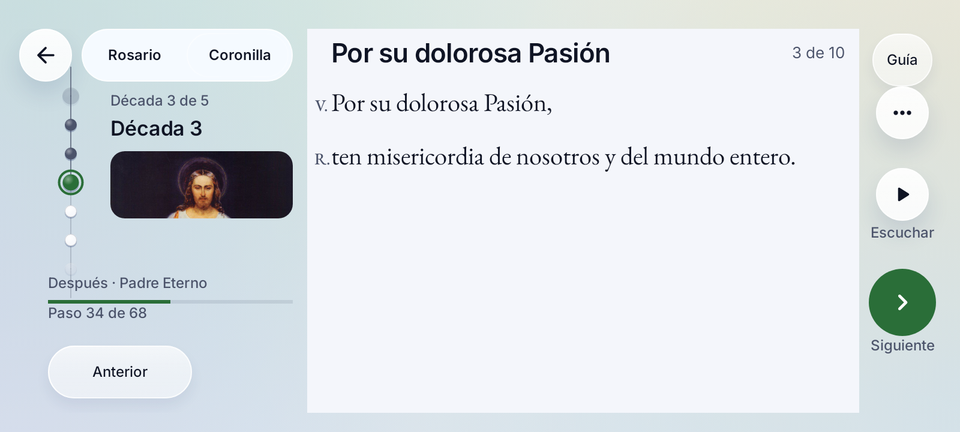
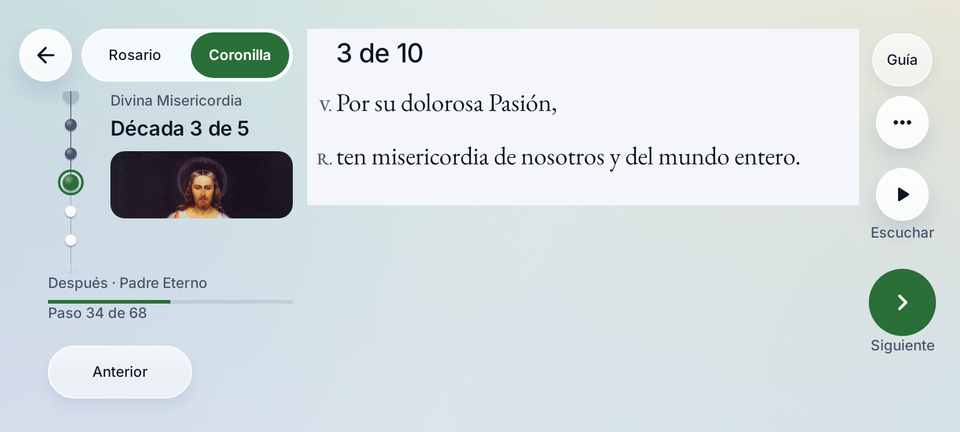
WIP: T-048 round-2 fixes complete, awaiting critic (backup only)
Claude-Session: https://claude.ai/code/session_01SMAtTCKQw6DX5K4BSHRkzL

diff --git a/app/src/main/java/com/example/ui/screens/RosaryScreen.kt b/app/src/main/java/com/example/ui/screens/RosaryScreen.kt
@@ -22,6 +22,7 @@ import androidx.compose.foundation.border
 import androidx.compose.foundation.clickable
 import androidx.compose.foundation.interaction.MutableInteractionSource
 import androidx.compose.foundation.layout.Arrangement
+import androidx.compose.foundation.layout.aspectRatio
 import androidx.compose.foundation.layout.Box
 import androidx.compose.foundation.layout.WindowInsets
 import androidx.compose.foundation.layout.systemGestures
@@ -70,6 +71,10 @@ import androidx.compose.ui.Alignment
 import androidx.compose.ui.Modifier
 import androidx.compose.ui.draw.clip
 import androidx.compose.ui.draw.drawBehind
+import androidx.compose.ui.layout.onSizeChanged
+import androidx.compose.ui.layout.positionInParent
+import androidx.compose.ui.draw.drawWithContent
+import androidx.compose.ui.graphics.BlendMode
 import androidx.compose.ui.graphics.Brush
 import androidx.compose.ui.graphics.Color
 import androidx.compose.ui.graphics.ColorFilter
@@ -100,6 +105,7 @@ import androidx.compose.ui.semantics.progressBarRangeInfo
 import androidx.compose.ui.semantics.selected
 import androidx.compose.ui.semantics.semantics
 import androidx.compose.ui.semantics.stateDescription
+import androidx.compose.ui.semantics.toggleableState
 import androidx.compose.ui.text.font.FontWeight
 import androidx.compose.ui.text.rememberTextMeasurer
 import androidx.compose.ui.text.style.TextAlign
@@ -225,9 +231,9 @@ internal class PrayerGuide(
 
     fun firstStepOn(bead: Int): Int = steps.indexOfFirst { it.bead == bead }
 
-    /** Moving forward across a completed decade, including a bead-reel jump. */
+    /** Moving one step forward from [from] to [to] completes a decade (a firmer haptic tick). Jumps never do. */
     fun finishesDecade(from: Int, to: Int): Boolean =
-        to > from && steps[to].section > steps[from].section && steps[from].section in 1..decadeCount
+        to == from + 1 && steps[to].section != steps[from].section && steps[from].section in 1..decadeCount
 }
 
 private class GuideBuilder {
@@ -1205,7 +1211,7 @@ fun RosaryScreen(
                 selectedMysteryType, selectedTab, labelInDecade, decadeFruit, artPath, glassBackdrop,
                 panelBack, instructionsOn,
                 onSelect = { dispatch(RosaryEvent.SelectDevotion(Devotion.fromTab(it))) },
-                onPrevious = { go(index - 1) }, onBead = { bead -> guide.firstStepOn(bead).takeIf { it >= 0 }?.let { go(it) } },
+                onPrevious = { go(index - 1) }, onNext = { go(index + 1) }, onBead = { bead -> guide.firstStepOn(bead).takeIf { it >= 0 }?.let { go(it) } },
                 onOptions = { sheet = RosarySheet.OPTIONS }, onMysteries = { sheet = RosarySheet.MYSTERIES },
                 onMystery = { sheet = RosarySheet.MYSTERY }
             )
@@ -1219,7 +1225,7 @@ fun RosaryScreen(
     ) {
         if (landscape) {
             LandscapeRosaryPrayer(step, "$selectedTab/$selectedMysteryType/$index", lang, count,
-                currentlySpeaking, { dispatch(RosaryEvent.SkipOptional) }, contentScroll, readingAnchor)
+                currentlySpeaking, { dispatch(RosaryEvent.SkipOptional) }, contentScroll, readingAnchor, instructionsOn)
         } else BoxWithConstraints(
         Modifier.fillMaxSize()
     ) {
@@ -1488,7 +1494,7 @@ private fun LandscapeRosaryContext(
     section: GuideSection, where: String, count: String?, stepText: String, upNext: String?,
     mysteryType: RosaryMysteryType, selectedTab: Int, inDecade: Boolean, fruit: String?,
     art: String?, backdrop: DevotionalBackdrop, back: Pair<String, () -> Unit>?, guidance: Boolean,
-    onSelect: (Int) -> Unit, onPrevious: () -> Unit, onBead: (Int) -> Unit,
+    onSelect: (Int) -> Unit, onPrevious: () -> Unit, onNext: () -> Unit, onBead: (Int) -> Unit,
     onOptions: () -> Unit, onMysteries: () -> Unit, onMystery: () -> Unit
 ) {
     val window = appWindowSize()
@@ -1513,34 +1519,34 @@ private fun LandscapeRosaryContext(
             DevotionSwitch(lang, selectedTab, backdrop, design.isDark, onSelect, compact = true)
         }
         Spacer(Modifier.height(8.dp))
-        Row(Modifier.weight(1f).fillMaxWidth().padding(start = start, end = 12.dp), horizontalArrangement = Arrangement.spacedBy(8.dp)) {
+        Row(Modifier.weight(1f).fillMaxWidth().padding(start = start, end = 12.dp).semantics { isTraversalGroup = true }, horizontalArrangement = Arrangement.spacedBy(8.dp)) {
             val beadSteps = guide.steps.indices.filter { guide.steps[it].bead == step.bead }
             BeadReel(beads = guide.beads.map { it.kind }, activeBead = step.bead, onSelectBead = onBead,
                 subStepCount = beadSteps.size, subStepIndex = beadSteps.indexOf(index).coerceAtLeast(0),
                 orientation = androidx.compose.foundation.gestures.Orientation.Vertical,
                 modifier = Modifier.width(44.dp).fillMaxHeight().testTag(if (isRosary) "prayer_bead_counter" else "mercy_step_counter")
                     .semantics {
+                        traversalIndex = 1f
                         contentDescription = listOfNotNull(where, step.name, count).joinToString(", ")
                         stateDescription = stepText
                         customActions = listOf(
-                            CustomAccessibilityAction(lang.pick("Anterior", "Back", "Anterior")) { if (index > 0) { onBead((step.bead - 1).coerceAtLeast(0)); true } else false },
-                            CustomAccessibilityAction(lang.pick("Siguiente", "Next", "Seguinte")) { if (step.bead < guide.beads.lastIndex) { onBead(step.bead + 1); true } else false }
+                            CustomAccessibilityAction(lang.pick("Anterior", "Back", "Anterior")) { if (index > 0) { onPrevious(); true } else false },
+                            CustomAccessibilityAction(lang.pick("Siguiente", "Next", "Seguinte")) { if (index < guide.steps.lastIndex) { onNext(); true } else false }
                         )
                     })
-            Box(Modifier.weight(1f).fillMaxHeight()) {
-                Column(Modifier.fillMaxSize().verticalScroll(contextScroll).testTag("rosary_context_scroll").semantics { isTraversalGroup = true; traversalIndex = 0f }) {
+            Box(Modifier.weight(1f).fillMaxHeight().semantics { isTraversalGroup = true; traversalIndex = 0f }) {
+                Column(Modifier.fillMaxSize().rosaryScrollFade(contextScroll.canScrollForward, 16.dp).verticalScroll(contextScroll).testTag("rosary_context_scroll").semantics { isTraversalGroup = true; traversalIndex = 0f }) {
                     Text(if (isRosary && inDecade) mysteryAnnouncement(lang, mysteryType, step.section - 1, "").substringBefore(":") else if (!isRosary) lang.pick("Divina Misericordia", "Divine Mercy", "Divina Misericórdia") else where, style = styles.caption, color = p.textSecondary)
                     Spacer(Modifier.height(4.dp))
                     Text(if (inDecade) section.subtitle else step.intention ?: if (isRosary) step.name else where,
                         style = styles.headline, color = p.textPrimary,
                         modifier = Modifier.testTag(if (isRosary) "rosary_hero_title" else "mercy_hero_title").semantics { heading() })
                     Spacer(Modifier.height(8.dp))
-                    if (guidance) { GuideHint(step, lang, compact = true); Spacer(Modifier.height(8.dp)) }
                     val thumbHeight = if (window.height < 400.dp) 56.dp else 102.dp
-                    Box(Modifier.fillMaxWidth().height(thumbHeight)
+                    if (art != null) Box(Modifier.fillMaxWidth().height(thumbHeight)
                         .testTag(if (isRosary) "rosary_hero_photo" else "mercy_hero_photo")
                         .semantics { credit?.let { contentDescription = listOf(it.title, it.artist).filter { it.isNotBlank() }.joinToString(", ") } }) {
-                        ArtThumb(art.orEmpty(), Modifier.fillMaxSize()
+                        ArtThumb(art, Modifier.fillMaxSize()
                             .then(if (inDecade) Modifier.testTag("mystery_hero_photo") else Modifier)
                             .then(if (design.isSanctuary) Modifier.border(0.75.dp, p.separator, RoundedCornerShape(8.dp)).padding(5.dp) else Modifier))
                     }
@@ -1583,24 +1589,41 @@ private fun LandscapeRosaryContext(
 }
 
 @Composable
-private fun LandscapePrayerPill(text: String, tag: String, action: () -> Unit, enabled: Boolean = true, modifier: Modifier = Modifier) {
+private fun LandscapePrayerPill(text: String, tag: String, action: () -> Unit, enabled: Boolean = true, modifier: Modifier = Modifier,
+                                switchState: Boolean? = null) {
     val design = LocalAppDesign.current
     val shape = if (design.isSanctuary) RoundedCornerShape(8.dp) else CircleShape
-    Box(modifier.heightIn(min = 44.dp).lumenPress(action, enabled = enabled, shape = shape)
-        .semantics { contentDescription = text }.testTag(tag)
-        .lumenGlass(shape).padding(horizontal = 12.dp), contentAlignment = Alignment.Center) {
-        Text(text, style = LocalAppTextStyles.current.caption, color = if (enabled) design.palette.textPrimary else design.palette.inkQuiet)
+    val on = switchState == true
+    Box(modifier.heightIn(min = 44.dp)
+        .lumenPress(action, enabled = enabled, shape = shape, role = if (switchState != null) Role.Switch else Role.Button)
+        .semantics {
+            contentDescription = text
+            if (switchState != null) toggleableState = androidx.compose.ui.state.ToggleableState(on)
+        }.testTag(tag)
+        .then(if (on) Modifier.background(design.palette.action, shape) else Modifier.lumenGlass(shape))
+        .padding(horizontal = 12.dp), contentAlignment = Alignment.Center) {
+        Text(text, style = LocalAppTextStyles.current.caption,
+            color = if (on) design.palette.onAction else if (enabled) design.palette.textPrimary else design.palette.inkQuiet)
     }
 }
+
+/** Fades the bottom edge of scrolling content out by masking it (no painted rectangle). */
+private fun Modifier.rosaryScrollFade(canScroll: Boolean, fade: Dp): Modifier = this
+    .graphicsLayer { compositingStrategy = androidx.compose.ui.graphics.CompositingStrategy.Offscreen }
+    .drawWithContent {
+        drawContent()
+        if (canScroll && size.height > 0f) {
+            val f = (fade.toPx() / size.height).coerceIn(0f, 1f)
+            drawRect(Brush.verticalGradient(0f to Color.Black, (1f - f) to Color.Black, 1f to Color.Transparent), blendMode = BlendMode.DstIn)
+        }
+    }
 
 @Composable
 private fun RosaryScrollHint(visible: Boolean, height: Dp, tag: String) {
     if (visible) {
         val p = LocalAppDesign.current.palette
-        Box(Modifier.fillMaxSize(), contentAlignment = Alignment.BottomCenter) {
-            Box(Modifier.fillMaxWidth().height(height).background(Brush.verticalGradient(listOf(Color.Transparent, p.canvasTop)))
-                .testTag(tag).clearAndSetSemantics {})
-            Icon(Icons.Rounded.KeyboardArrowDown, null, tint = p.textSecondary, modifier = Modifier.size(16.dp).clearAndSetSemantics {})
+        Box(Modifier.fillMaxSize().testTag(tag).clearAndSetSemantics {}, contentAlignment = Alignment.BottomEnd) {
+            Icon(Icons.Rounded.KeyboardArrowDown, null, tint = p.textSecondary, modifier = Modifier.padding(end = 4.dp, bottom = 2.dp).size(16.dp))
         }
     }
 }
@@ -1614,9 +1637,10 @@ private fun LandscapeRosaryActions(lang: AppLanguage, isRosary: Boolean, guidanc
     val styles = LocalAppTextStyles.current
     val edge = maxOf(12.dp, safe.end + 8.dp)
     Box(Modifier.fillMaxHeight().padding(end = edge).width(72.dp).testTag("prayer_transport").semantics { isTraversalGroup = true; traversalIndex = 2f }) {
-        Column(Modifier.align(Alignment.TopCenter), horizontalAlignment = Alignment.CenterHorizontally) {
+        Column(Modifier.align(Alignment.TopCenter), horizontalAlignment = Alignment.CenterHorizontally,
+            verticalArrangement = Arrangement.spacedBy(8.dp)) {
             LandscapePrayerPill(lang.pick("Guía", "Guide", "Guia"), "prayer_instructions_toggle", onGuide,
-                modifier = Modifier.semantics { selected = guidance })
+                modifier = Modifier.semantics { selected = guidance }, switchState = guidance)
             AppGlassIconButton(Icons.Outlined.MoreHoriz, lang.pick("Opciones", "Options", "Opções"), onOptions,
                 modifier = Modifier.size(44.dp), tag = "rosary_options_button")
         }
@@ -1625,15 +1649,15 @@ private fun LandscapeRosaryActions(lang: AppLanguage, isRosary: Boolean, guidanc
             AppGlassIconButton(if (playing) Icons.Rounded.Pause else Icons.Rounded.PlayArrow,
                 if (playing) lang.pick("Pausar", "Pause", "Pausar") else lang.pick("Escuchar", "Listen", "Ouvir"), onAudio,
                 tag = if (isRosary) "toggle_prayer_audio_button" else "toggle_mercy_audio_button")
-            Text(lang.pick("Escuchar", "Listen", "Ouvir"), style = styles.caption, color = p.textSecondary, modifier = Modifier.clearAndSetSemantics {})
+            Text(if (playing) lang.pick("Pausar", "Pause", "Pausar") else lang.pick("Escuchar", "Listen", "Ouvir"), style = styles.caption, color = p.textSecondary, modifier = Modifier.clearAndSetSemantics {})
         }
         Column(Modifier.align(Alignment.TopCenter).padding(top = window.height * 0.70f - safe.top - 32.dp),
             horizontalAlignment = Alignment.CenterHorizontally) {
             val shape = if (LocalAppDesign.current.isSanctuary) RoundedCornerShape(12.dp) else CircleShape
-            Box(Modifier.size(56.dp).background(p.action, shape).lumenPress(onNext, enabled = canNext, shape = shape)
+            Box(Modifier.size(56.dp).background(if (canNext) p.action else p.action.copy(alpha = .38f), shape).lumenPress(onNext, enabled = canNext, shape = shape)
                 .testTag(if (isRosary) "next_bead_button" else "next_mercy_step_button")
                 .semantics { contentDescription = lang.pick("Siguiente", "Next", "Seguinte") }, contentAlignment = Alignment.Center) {
-                Icon(Icons.Rounded.ChevronRight, null, tint = p.onAction, modifier = Modifier.size(28.dp))
+                Icon(Icons.Rounded.ChevronRight, null, tint = if (canNext) p.onAction else p.onAction.copy(alpha = .6f), modifier = Modifier.size(28.dp))
             }
             Text(lang.pick("Siguiente", "Next", "Seguinte"), style = styles.caption, color = p.textSecondary, modifier = Modifier.clearAndSetSemantics {})
         }
@@ -1642,18 +1666,29 @@ private fun LandscapeRosaryActions(lang: AppLanguage, isRosary: Boolean, guidanc
 
 @OptIn(ExperimentalFoundationApi::class)
 @Composable
-private fun LandscapeRosaryPrayer(step: GuideStep, key: String, lang: AppLanguage, count: String?, spoken: String?, onSkip: () -> Unit, scroll: androidx.compose.foundation.ScrollState, readingAnchor: RosaryTextAnchor) {
+private fun LandscapeRosaryPrayer(step: GuideStep, key: String, lang: AppLanguage, count: String?, spoken: String?, onSkip: () -> Unit, scroll: androidx.compose.foundation.ScrollState, readingAnchor: RosaryTextAnchor, guidance: Boolean = false) {
     val safe = appSafeInsets()
     val p = LocalAppDesign.current.palette
     val responseView = remember(key) { BringIntoViewRequester() }
     LaunchedEffect(key, spoken) { if (spoken != null && spoken == step.response) responseView.bringIntoView() }
-    Column(Modifier.fillMaxSize().testTag("prayer_text_art").background(p.canvasTop).padding(start = 20.dp, end = 12.dp, top = safe.top + 4.dp)) {
-        PrayerTitleRow(step, count, lang, true, onSkip, padded = false)
+    // P9: the scroll area reaches the footer, but the opaque surface stops where the text does.
+    var viewportTop by remember { mutableStateOf(0f) }
+    var contentHeight by remember { mutableStateOf(0) }
+    Column(Modifier.fillMaxSize().testTag("prayer_text_art")
+        .drawBehind {
+            val h = minOf(viewportTop + (safe.top + 4.dp).toPx() + contentHeight + 24.dp.toPx(), size.height)
+            drawRect(p.canvasTop, size = androidx.compose.ui.geometry.Size(size.width, h))
+        }
+        .padding(start = 24.dp, end = 12.dp, top = safe.top + 4.dp)) {
+        PrayerTitleRow(step, count, lang, !nameRepeatsText(step), onSkip, padded = false)
         Spacer(Modifier.height(8.dp))
+        if (guidance) { GuideHint(step, lang, compact = true); Spacer(Modifier.height(8.dp)) }
         Box(Modifier.weight(1f).fillMaxWidth().testTag("prayer_reading_viewport")
-            .onGloballyPositioned { readingAnchor.viewport = it.boundsInRoot() }) {
-            Column(Modifier.fillMaxSize().verticalScroll(scroll).testTag("prayer_content_scroll")) {
-                PrayerBody(step.copy(intention = null, meditation = null, detail = null), lang, spoken, instructionsOn = false, responseModifier = Modifier.bringIntoViewRequester(responseView), readingAnchor = readingAnchor)
+            .onGloballyPositioned { readingAnchor.viewport = it.boundsInRoot(); viewportTop = it.positionInParent().y }) {
+            Column(Modifier.fillMaxSize().rosaryScrollFade(scroll.canScrollForward, 24.dp).verticalScroll(scroll).testTag("prayer_content_scroll")) {
+                Column(Modifier.onSizeChanged { contentHeight = it.height }) {
+                    PrayerBody(step.copy(intention = null, meditation = null, detail = null), lang, spoken, instructionsOn = false, responseModifier = Modifier.bringIntoViewRequester(responseView), readingAnchor = readingAnchor)
+                }
             }
             RosaryScrollHint(scroll.canScrollForward, 24.dp, "prayer_scroll_hint")
         }
@@ -1858,11 +1893,15 @@ private fun DevotionSwitch(lang: AppLanguage, selected: Int, backdrop: Devotiona
             LiquidGlassDevotionTrack(selected, false, darkArt, backdrop, Modifier.matchParentSize()) { }
             Row(Modifier.fillMaxSize()) {
                 short.forEachIndexed { i, text ->
+                    val isSel = i == selected
+                    val segShape = if (design.isSanctuary) RoundedCornerShape(8.dp) else CircleShape
                     Box(Modifier.weight(1f).fillMaxHeight()
-                        .clickable(sources[i], indication = com.example.ui.design.appFocusRing(sources[i], CircleShape), role = Role.Tab) { onSelect(i) }
-                        .semantics { this.selected = i == selected }, contentAlignment = Alignment.Center) {
-                        Text(text, style = styles.caption.copy(fontWeight = FontWeight.SemiBold),
-                            color = if ((design.isClassic || design.reduceTransparency || design.highContrast) && i == selected) p.onAction else p.textPrimary,
+                        .clickable(sources[i], indication = com.example.ui.design.appFocusRing(sources[i], segShape), role = Role.Tab) { onSelect(i) }
+                        .semantics { this.selected = isSel }
+                        .padding(3.dp)
+                        .then(if (isSel) Modifier.background(p.action, segShape) else Modifier), contentAlignment = Alignment.Center) {
+                        Text(text, style = styles.caption.copy(fontWeight = if (isSel) FontWeight.SemiBold else FontWeight.Medium),
+                            color = if (isSel) p.onAction else p.textPrimary,
                             textAlign = TextAlign.Center)
                     }
                 }
@@ -2245,7 +2284,7 @@ private fun PrayerBody(
 private fun HungVoice(mark: String, text: String, style: TextStyle, ink: Color, markInk: Color, modifier: Modifier = Modifier) {
     // 14dp hang: the mark starts 6dp from the screen edge and keeps 4dp clear of the text.
     // It is 0.72em; at large type (where it would pass 10dp) it steps down to 0.66em.
-    val hang = 14.dp
+    val hang = if (appWindowClass() == AppWindowClass.LandscapePhone) 16.dp else 14.dp
     val em = if (LocalDensity.current.fontScale > 1.15f) 0.66f else 0.72f
     val markStyle = LocalAppTextStyles.current.reading.let { it.copy(fontSize = it.fontSize * em, fontWeight = FontWeight.Medium) }
     Row(
@@ -2645,14 +2684,21 @@ private fun OptionsSheet(
             if (isRosary) lang.pick("Partes del Rosario", "Parts of the Rosary", "Partes do Rosário")
             else lang.pick("Pasos de la coronilla", "Steps of the chaplet", "Passos da coroinha")
         )
-        RosaryLoopMap(
-            beads = guide.beads.map { it.kind },
-            activeBead = step.bead,
-            onSelectBead = { bead -> guide.firstStepOn(bead).takeIf { it >= 0 }?.let(onGo) },
-            modifier = Modifier
-                .padding(horizontal = if (landscape) 8.dp else 72.dp, vertical = 4.dp)
-                .testTag("rosary_loop_map")
-        )
+        val map: @Composable (Modifier) -> Unit = { m ->
+            RosaryLoopMap(
+                beads = guide.beads.map { it.kind },
+                activeBead = step.bead,
+                onSelectBead = { bead -> guide.firstStepOn(bead).takeIf { it >= 0 }?.let(onGo) },
+                modifier = m.testTag("rosary_loop_map")
+            )
+        }
+        if (landscape) {
+            // The map is square: fit it to the column so it is never clipped.
+            BoxWithConstraints(Modifier.fillMaxWidth()) {
+                val side = minOf(maxWidth - 16.dp, LocalRosarySheetColumnHeight.current - 64.dp).coerceAtLeast(96.dp)
+                map(Modifier.size(side).align(Alignment.Center).padding(vertical = 4.dp))
+            }
+        } else map(Modifier.padding(horizontal = 72.dp, vertical = 4.dp))
         Spacer(Modifier.height(12.dp))
         val prayed = lang.pick("Rezado", "Prayed", "Rezado")
         val now = lang.pick("Ahora", "Now", "Agora")
@@ -2710,12 +2756,17 @@ private fun OptionsSheet(
     }
 }
 
+private val LocalRosarySheetColumnHeight = androidx.compose.runtime.compositionLocalOf { Dp.Infinity }
+
 /** Each sheet column has its own reachable text and a visible continuation hint. */
 @Composable
 private fun RosarySheetColumn(modifier: Modifier = Modifier, content: @Composable androidx.compose.foundation.layout.ColumnScope.() -> Unit) {
     val scroll = rememberScrollState()
-    Box(modifier.height((appWindowSize().height - 116.dp).coerceAtLeast(132.dp))) {
-        Column(Modifier.fillMaxSize().verticalScroll(scroll), content = content)
+    val columnHeight = (appWindowSize().height - 116.dp).coerceAtLeast(132.dp)
+    Box(modifier.height(columnHeight)) {
+        androidx.compose.runtime.CompositionLocalProvider(LocalRosarySheetColumnHeight provides columnHeight) {
+            Column(Modifier.fillMaxSize().rosaryScrollFade(scroll.canScrollForward, 16.dp).verticalScroll(scroll), content = content)
+        }
         RosaryScrollHint(scroll.canScrollForward, 16.dp, "rosary_sheet_scroll_hint")
     }
 }
@@ -2745,7 +2796,10 @@ private fun MysterySheet(
                 RosarySheetColumn(Modifier.weight(1f)) {
                     if (artPath != null) {
                         val bitmap = rememberAssetBitmap(artPath, 1080)
-                        Box(Modifier.fillMaxWidth().height(192.dp).border(.75.dp, p.separator).padding(5.dp)) {
+                        val ratio = bitmap?.let { it.width.toFloat() / it.height.coerceAtLeast(1) } ?: (4f / 3f)
+                        val frame = if (design.isSanctuary) Modifier.border(.75.dp, p.separator).padding(5.dp)
+                            else Modifier.clip(RoundedCornerShape(12.dp))
+                        Box(Modifier.align(Alignment.CenterHorizontally).aspectRatio(ratio).heightIn(max = 192.dp).then(frame)) {
                             if (bitmap != null) Image(bitmap, null, contentScale = ContentScale.Fit, modifier = Modifier.fillMaxSize())
                         }
                     }

diff --git a/app/src/test/java/com/example/RosaryFitTest.kt b/app/src/test/java/com/example/RosaryFitTest.kt
@@ -13,6 +13,7 @@ import com.example.data.models.*
 import com.example.data.repository.CatholicDataRepository
 import com.example.ui.screens.*
 import com.example.ui.theme.SanctaFidesTheme
+import androidx.compose.ui.unit.dp
 import org.junit.*
 import org.junit.Assert.*
 import org.junit.runner.RunWith
@@ -61,7 +62,18 @@ class RosaryFitTest(private val width: Int, private val height: Int, private val
             compose.runOnUiThread { LandscapeInsetsHarness.dispatch(compose.activity, height) }; compose.waitForIdle()
             val pane = compose.onNodeWithTag("prayer_content_scroll")
             val range = pane.fetchSemanticsNode().config[SemanticsProperties.VerticalScrollAxisRange]
-            assertEquals("$lang $width guide=$guidance ${step.name} must fit", 0f, range.maxValue(), .5f)
+            // LANDSCAPE.md §14 decision 1: the guide sits between the title and the text and, with it on at
+            // 800 x 360, the Our Father may scroll (exception declared; it never loses the guide).
+            val declaredException = guidance && height < 400 && devotion == 0 && step.name == routine.first().third.name
+            if (!declaredException) assertEquals("$lang $width guide=$guidance ${step.name} must fit", 0f, range.maxValue(), .5f)
+            if (guidance) {
+                val hint = compose.onNodeWithTag("prayer_instructions_text", useUnmergedTree = true)
+                hint.assertIsDisplayed()
+                val hb = hint.getUnclippedBoundsInRoot()
+                val root = compose.onRoot().getUnclippedBoundsInRoot()
+                assertTrue("${step.name}: guide fully inside the window", hb.top >= root.top && hb.bottom <= root.bottom && hb.right <= root.right)
+                assertTrue("${step.name}: guide sits above the prayer text", hb.bottom <= viewportTop(pane))
+            }
             val viewport = pane.getUnclippedBoundsInRoot()
             for (text in listOf(step.leader, step.response).filter { it.isNotBlank() }) {
                 val node = compose.onNodeWithText(text, useUnmergedTree = true)
@@ -70,11 +82,12 @@ class RosaryFitTest(private val width: Int, private val height: Int, private val
                 assertEquals(1, layouts.size)
                 assertFalse("Prayer text must not be ellipsized", layouts.single().hasVisualOverflow)
                 val b = node.getUnclippedBoundsInRoot()
-                assertTrue("${step.name}: full text fits above gestures", b.top >= viewport.top && b.bottom <= viewport.bottom)
+                assertTrue("${step.name}: full text fits above gestures", declaredException || b.top >= viewport.top && b.bottom <= viewport.bottom)
             }
             compose.onNodeWithTag(if (devotion == 0) "next_bead_button" else "next_mercy_step_button").assertIsDisplayed()
         }
     }
+    private fun viewportTop(pane: SemanticsNodeInteraction) = pane.getUnclippedBoundsInRoot().top + 0.5.dp
     companion object {
         @JvmStatic @ParameterizedRobolectricTestRunner.Parameters(name = "{0}x{1}-{2}-guide{3}")
         fun cases() = listOf(891 to 411, 800 to 360).flatMap { (w,h) -> AppLanguage.entries.flatMap { l ->

diff --git a/docs/tasks/T-048-REPORT.md b/docs/tasks/T-048-REPORT.md
@@ -62,3 +62,35 @@ La matriz amplia de capturas se detuvo por la petición del propietario. No se d
 - Si falta el recurso de arte, omitir el bloque vacío y su espacio asociado.
 
 Estas observaciones quedan documentadas para la próxima indicación. No se continuaron los cambios tras la orden de entregar y esperar.
+
+
+## Ronda 2 (coordinador)
+
+Correcciones aplicadas por el agente local del coordinador sobre la integración de `ext/T-048`, a partir de `docs/tasks/T-048-REVIEW.md`. Sin commit; todo en el árbol de trabajo.
+
+| # | Defecto | Arreglo (`RosaryScreen.kt`) |
+|---|---|---|
+| 1 | Matriz §12 | Regenerada con `RosaryLandscapeScreenshotTest` desde el código actual, al 60 %, más `_contact.png` (ver abajo). |
+| 2 | Selector sin estado | `DevotionSwitch` compacto: segmento elegido con `p.action`, `p.onAction`, padding 3 dp, `CircleShape` (8 dp en Sanctuary); Medium en el otro. Verificado visualmente en las 4 identidades. |
+| 3 | Guía | `GuideHint(compact)` sale de la columna de contexto y va en el panel de la oración entre título y texto (§14.1). `LandscapePrayerPill(switchState)`: fondo `p.action` + texto `p.onAction` y rol `Switch` con `toggleableState` (se usó `lumenPress(role = Switch)` y `toggleableState` en vez de `Modifier.toggleable` para no duplicar el manejador de clic). `RosaryFitTest` con guía comprueba que `prayer_instructions_text` queda entero dentro de la ventana y sobre el texto; excepción declarada: Padrenuestro con guía a 800 × 360 desplaza (se omiten solo sus comprobaciones de «cabe sin desplazar»). |
+| 4 | Fundido | `Modifier.rosaryScrollFade` (capa `Offscreen` + `DstIn`) sobre los 3 usos (contexto, oración, columnas de hoja); la flecha pasa a `BottomEnd`. |
+| 5 | «Guía» y «···» pegados | `Arrangement.spacedBy(8.dp)`. |
+| 6 | Título duplicado | `PrayerTitleRow(..., !nameRepeatsText(step), ...)`. |
+| 7 | TalkBack | Hilo `traversalIndex = 1f`, contexto 0 (grupo), pie 2; acciones Anterior/Siguiente del hilo mueven por paso (`onPrevious()` y nuevo `onNext = go(index + 1)`). |
+| 8 | «Escuchar» fijo | El rótulo visible pasa a «Pausar»/«Pause» mientras suena. |
+| 9 | Mapa recortado | En Opciones (horizontal) el mapa se dimensiona `min(ancho − 16, alto de columna − 64)` y se centra. Se usó 64 dp y no 40 dp porque el rótulo de sección y el relleno consumen ~48 dp (con 40 se veía cortado el colgante). La altura de la columna llega por un `CompositionLocal` desde `RosarySheetColumn`, porque dentro del desplazamiento `maxHeight` es infinito. |
+| 10 | Marcas V./R. | `start = 24 dp` en la tarjeta y `hang = 16 dp` en `LandscapePhone` (vertical sigue en 14). |
+| 11 | «Siguiente» deshabilitado | Fondo `p.action` a alfa .38 e icono atenuado. |
+| 12 | Arte ausente | Bloque de miniatura solo `if (art != null)`; `MysterySheet` horizontal usa `aspectRatio` + `heightIn(max = 192.dp)`, filete/passe-partout solo en Sanctuary y `clip(12.dp)` en el resto. |
+| 13 | Superficie vacía (P9) | El área de desplazamiento llega a H − B; el fondo `p.canvasTop` se dibuja con `drawBehind` solo hasta `min(contenido medido + 24 dp, H − B)`. Se corrigió en esta ronda que la posición del viewport ignoraba el relleno superior (safe.top + 4). |
+
+### Fallo extra: `RosarySessionTest.finishingADecadeIsTheLastHailMaryToTheNextDecade`
+
+Causa raíz: T-048 había cambiado `PrayerGuide.finishesDecade` de `to == from + 1 && sección distinta` a `to > from && sección posterior`, para que un salto del hilo también diera el háptico de «decena completada». El test (y el contrato original) dice que los saltos de más de un paso nunca son decena completada (`finishesDecade(20, 22)` falso). Arreglo: se restauró la definición original; la aserción no se tocó. Consecuencia: un salto largo del hilo que cruza una decena ya no da el háptico firme (sí el tic por cuenta).
+
+### Capturas
+`docs/tasks/T-048-shots/` (60 %): Rosario y Coronilla × 891 × 411 y 800 × 360 × Lumen, Tradicional, Cristal, Sanctuary × claro/oscuro; `_s130` (ES) y `_s130_pt` a 800 × 360 en las 4 identidades; `_pt` en 891 Lumen claro; `_cutL`, `_cutR`, `_navR` (Lumen claro, 800 × 360); hojas `_mysteries`, `_options`, `_mystery` (Lumen claro 891; Opciones también en Sanctuary); `_guia` (800 × 360, 4 identidades); regresión `l1_regresion_vertical_*` y `l1_regresion_tableta_*`; `_contact.png`. Regresión vertical 411 × 891 y tableta 1280 × 800: los 4 hashes de píxeles de `regression-geometry.json` (Lumen y Sanctuary) coinciden con la base `e4a5cdd` tras estos cambios.
+
+### Límites
+- Cristal y Tradicional: la hoja Opciones, `_cut*` y `_navR` solo en Lumen claro (§12 pide una identidad por estado).
+- Sin teléfono físico ni TalkBack real; el orden de recorrido está por semántica, no escuchado.
